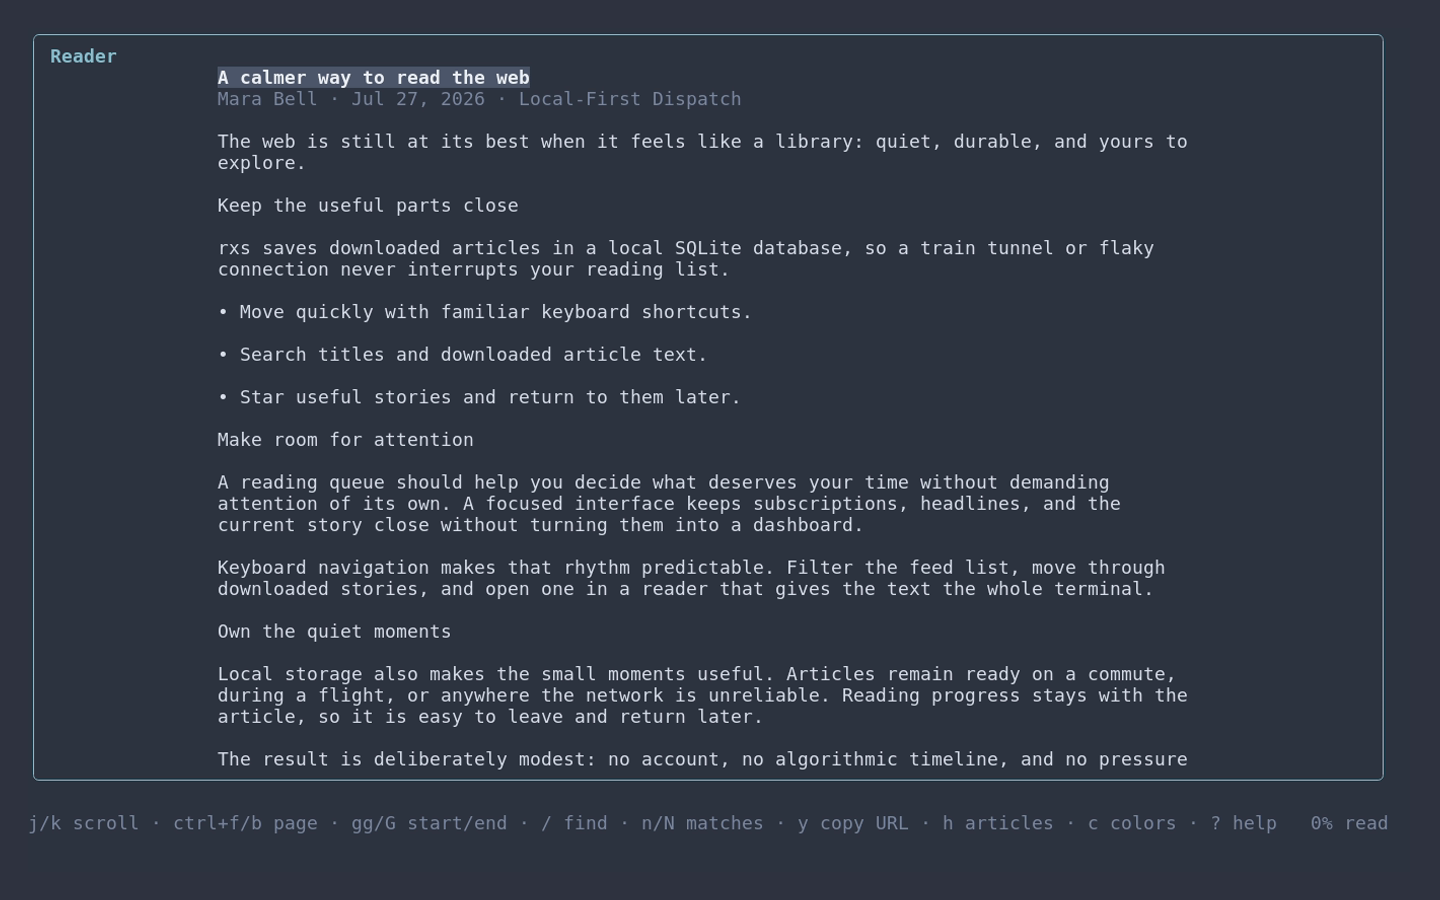
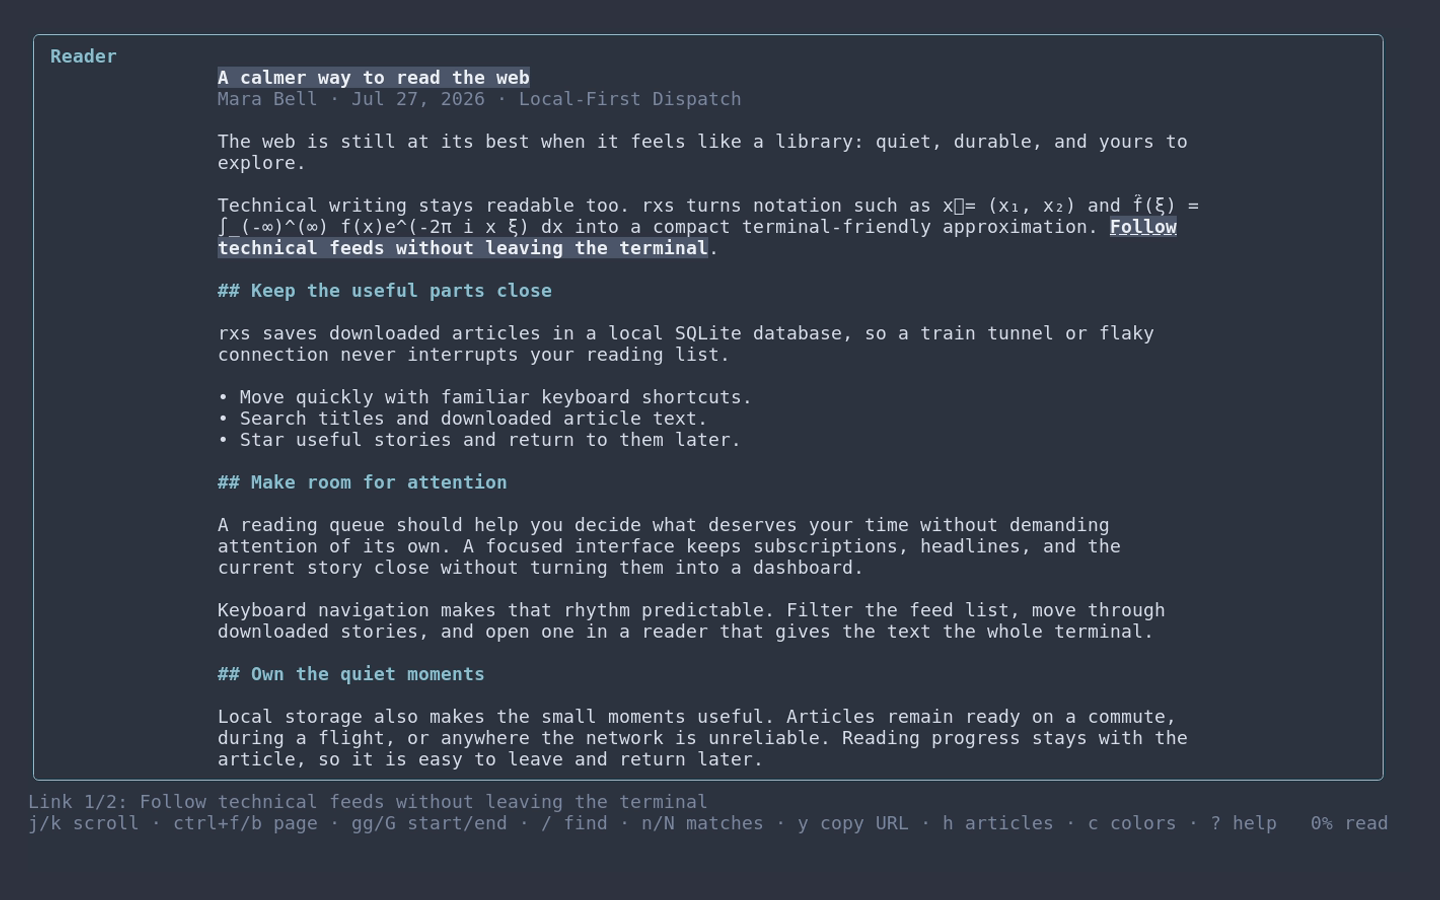
Drop Windows support.

diff --git a/README.md b/README.md
@@ -35,10 +35,10 @@ go install github.com/polera/rxs/cmd/rxs@latest
 rxs
 ```
 
-Precompiled binaries for Linux, macOS, Windows, and FreeBSD on amd64 and arm64 are also
+Precompiled binaries for Linux, macOS, and FreeBSD on amd64 and arm64 are also
 available from [GitHub Releases](https://github.com/polera/rxs/releases/latest).
-Download the archive for your platform, extract `rxs` (`rxs.exe` on Windows),
-and place it somewhere on your `PATH`. Each release includes `checksums.txt`
+Download the archive for your platform, extract `rxs`, and place it somewhere
+on your `PATH`. Each release includes `checksums.txt`
 for verifying the download.
 
 rxs checks GitHub Releases once a day when starting the interactive UI. If a
@@ -69,8 +69,7 @@ rxs add https://example.com/feed.xml
 
 The database lives in the platform user-data directory by default (`$XDG_DATA_HOME/rxs/rxs.db` or `~/.local/share/rxs/rxs.db` on Linux and FreeBSD). Pass `-db PATH` to use a different database. No configuration file is required.
 
-Database paths are literal filenames, not SQLite connection strings. On Windows,
-use a local drive path; UNC and device paths are not supported.
+Database paths are literal filenames, not SQLite connection strings.
 
 Use only one rxs process per database. Concurrent schema migration and multiple
 instances sharing a database are not supported. On Linux and FreeBSD, a relative
@@ -277,15 +276,15 @@ results still depend on the current advisory database and network availability.
 
 Use `make fuzz` for bounded parser fuzz runs and `make bench` for repeated benchmark
 samples with allocation reporting. The full benchmark matrix includes 100,000-entry
-storage stress cases and can take several minutes. See [PERFORMANCE.md](PERFORMANCE.md)
-for focused commands, profiling, local measurements, and their limitations.
+storage stress cases and can take several minutes. See the
+[rendering benchmarks](internal/render/BENCHMARKS.md) and
+[storage performance notes](internal/store/PERFORMANCE.md) for focused commands,
+profiling, local measurements, and their limitations.
 
-CI runs tests and vet on Linux and native Windows, plus race checks, bounded fuzzing,
-and license checks on Linux. Native Windows tests exercise executable replacement,
-rollback, and saved-file behavior; cross-compilation alone does not validate those.
+CI runs tests, vet, race checks, bounded fuzzing, and license checks on Linux.
 
-Release workflows build Linux, macOS, Windows, and FreeBSD binaries for amd64 and arm64,
-with CGO disabled.
+Release workflows build Linux, macOS, and FreeBSD binaries for amd64 and arm64 with
+CGO disabled.
 
 ## License
 
